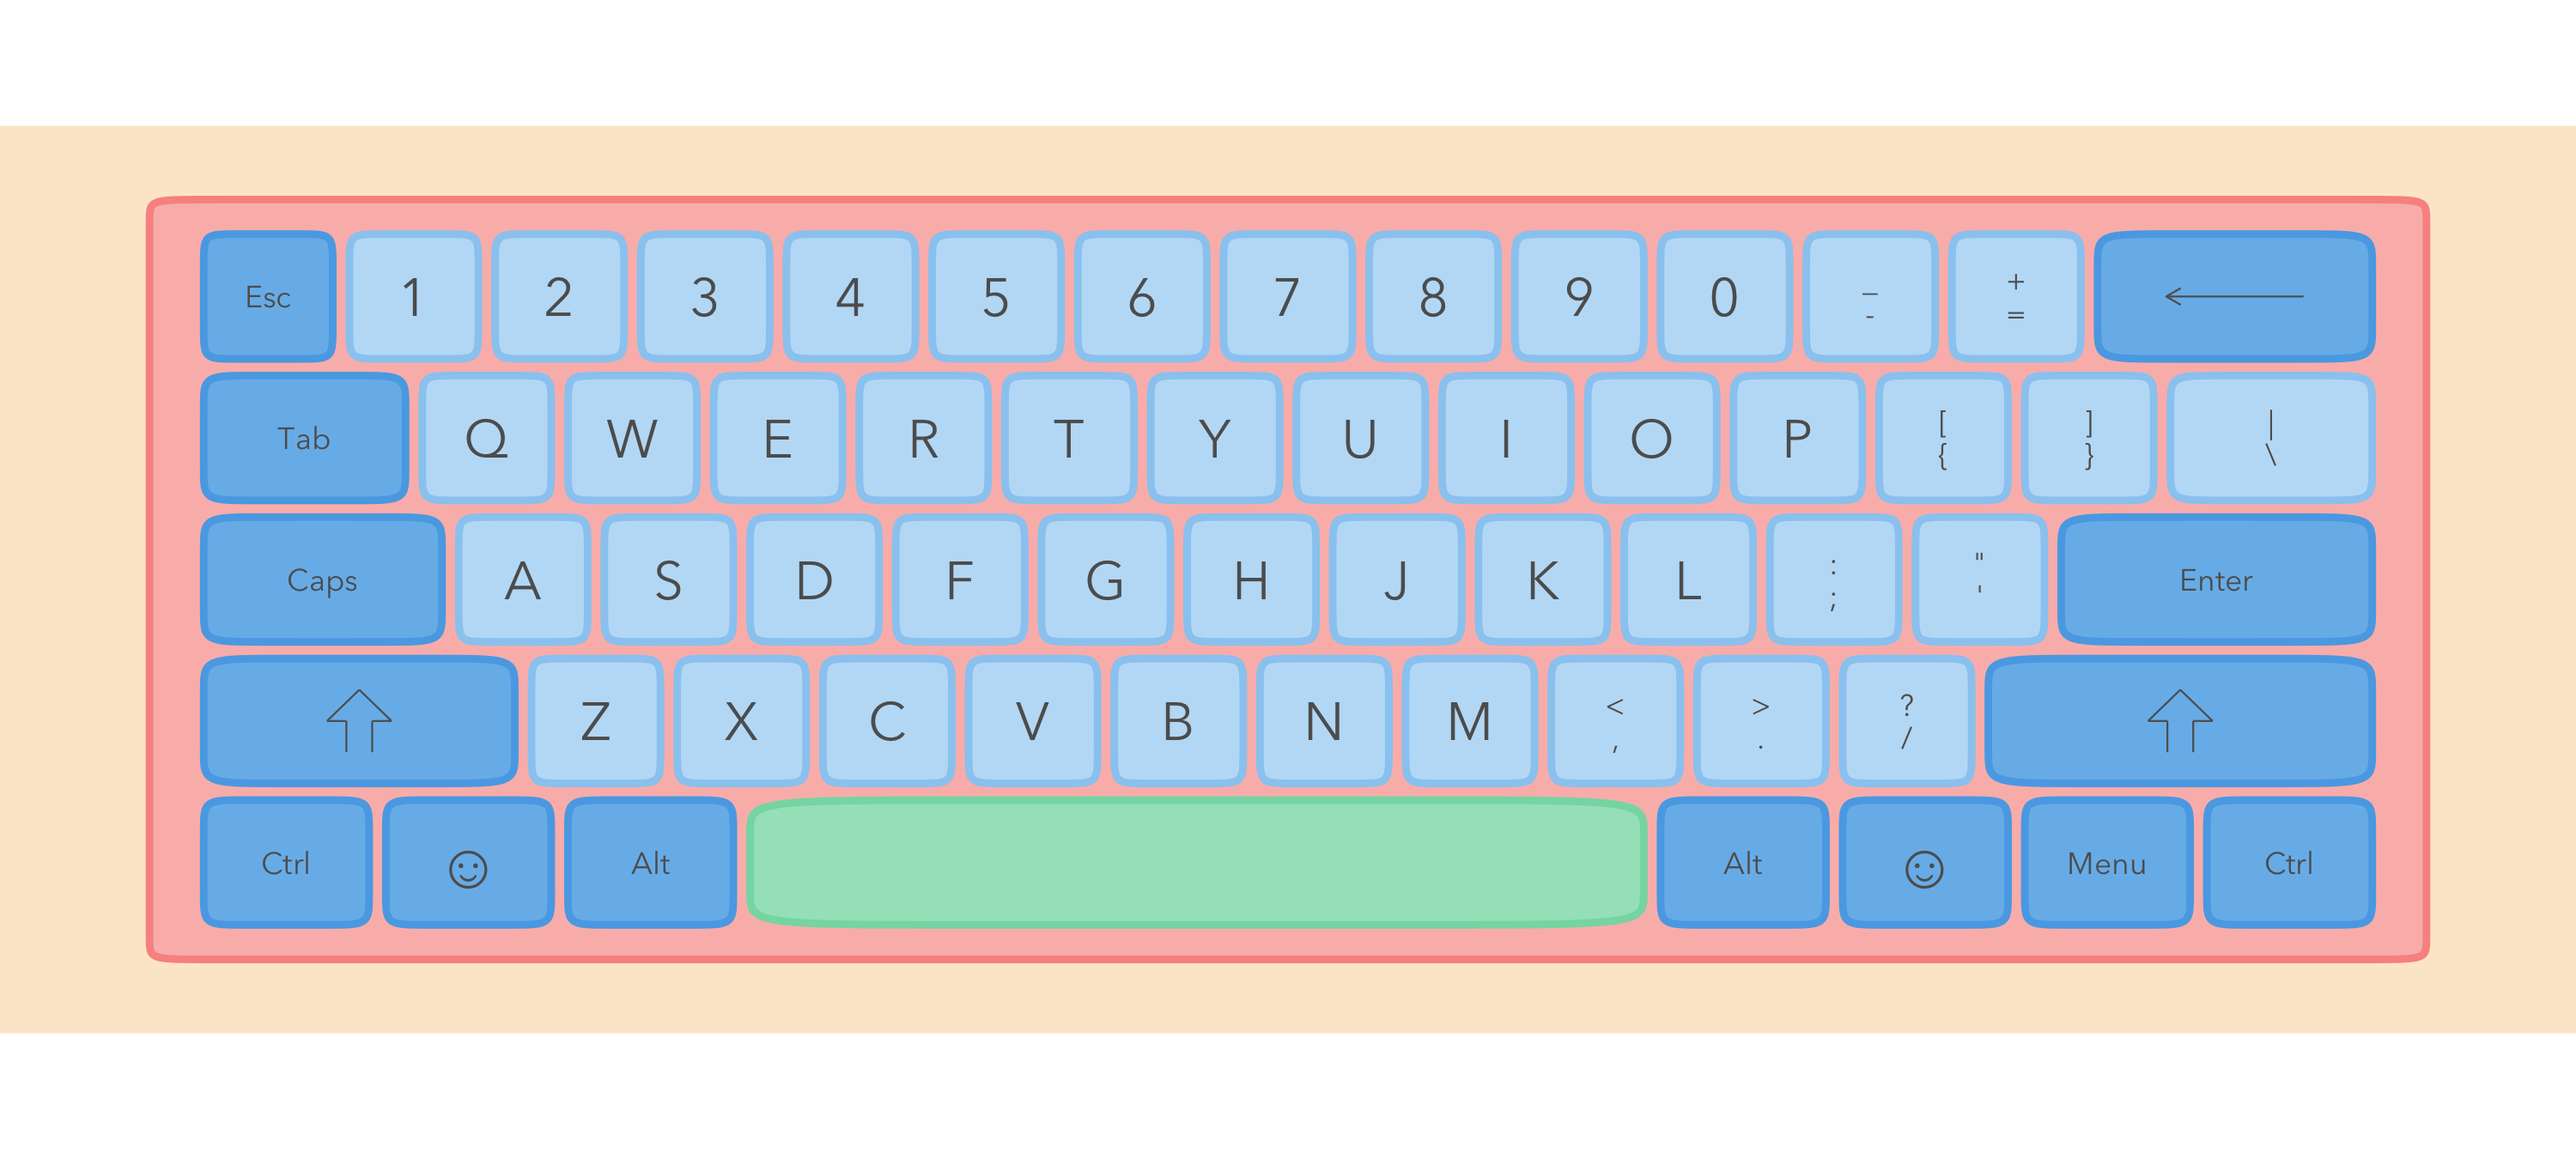
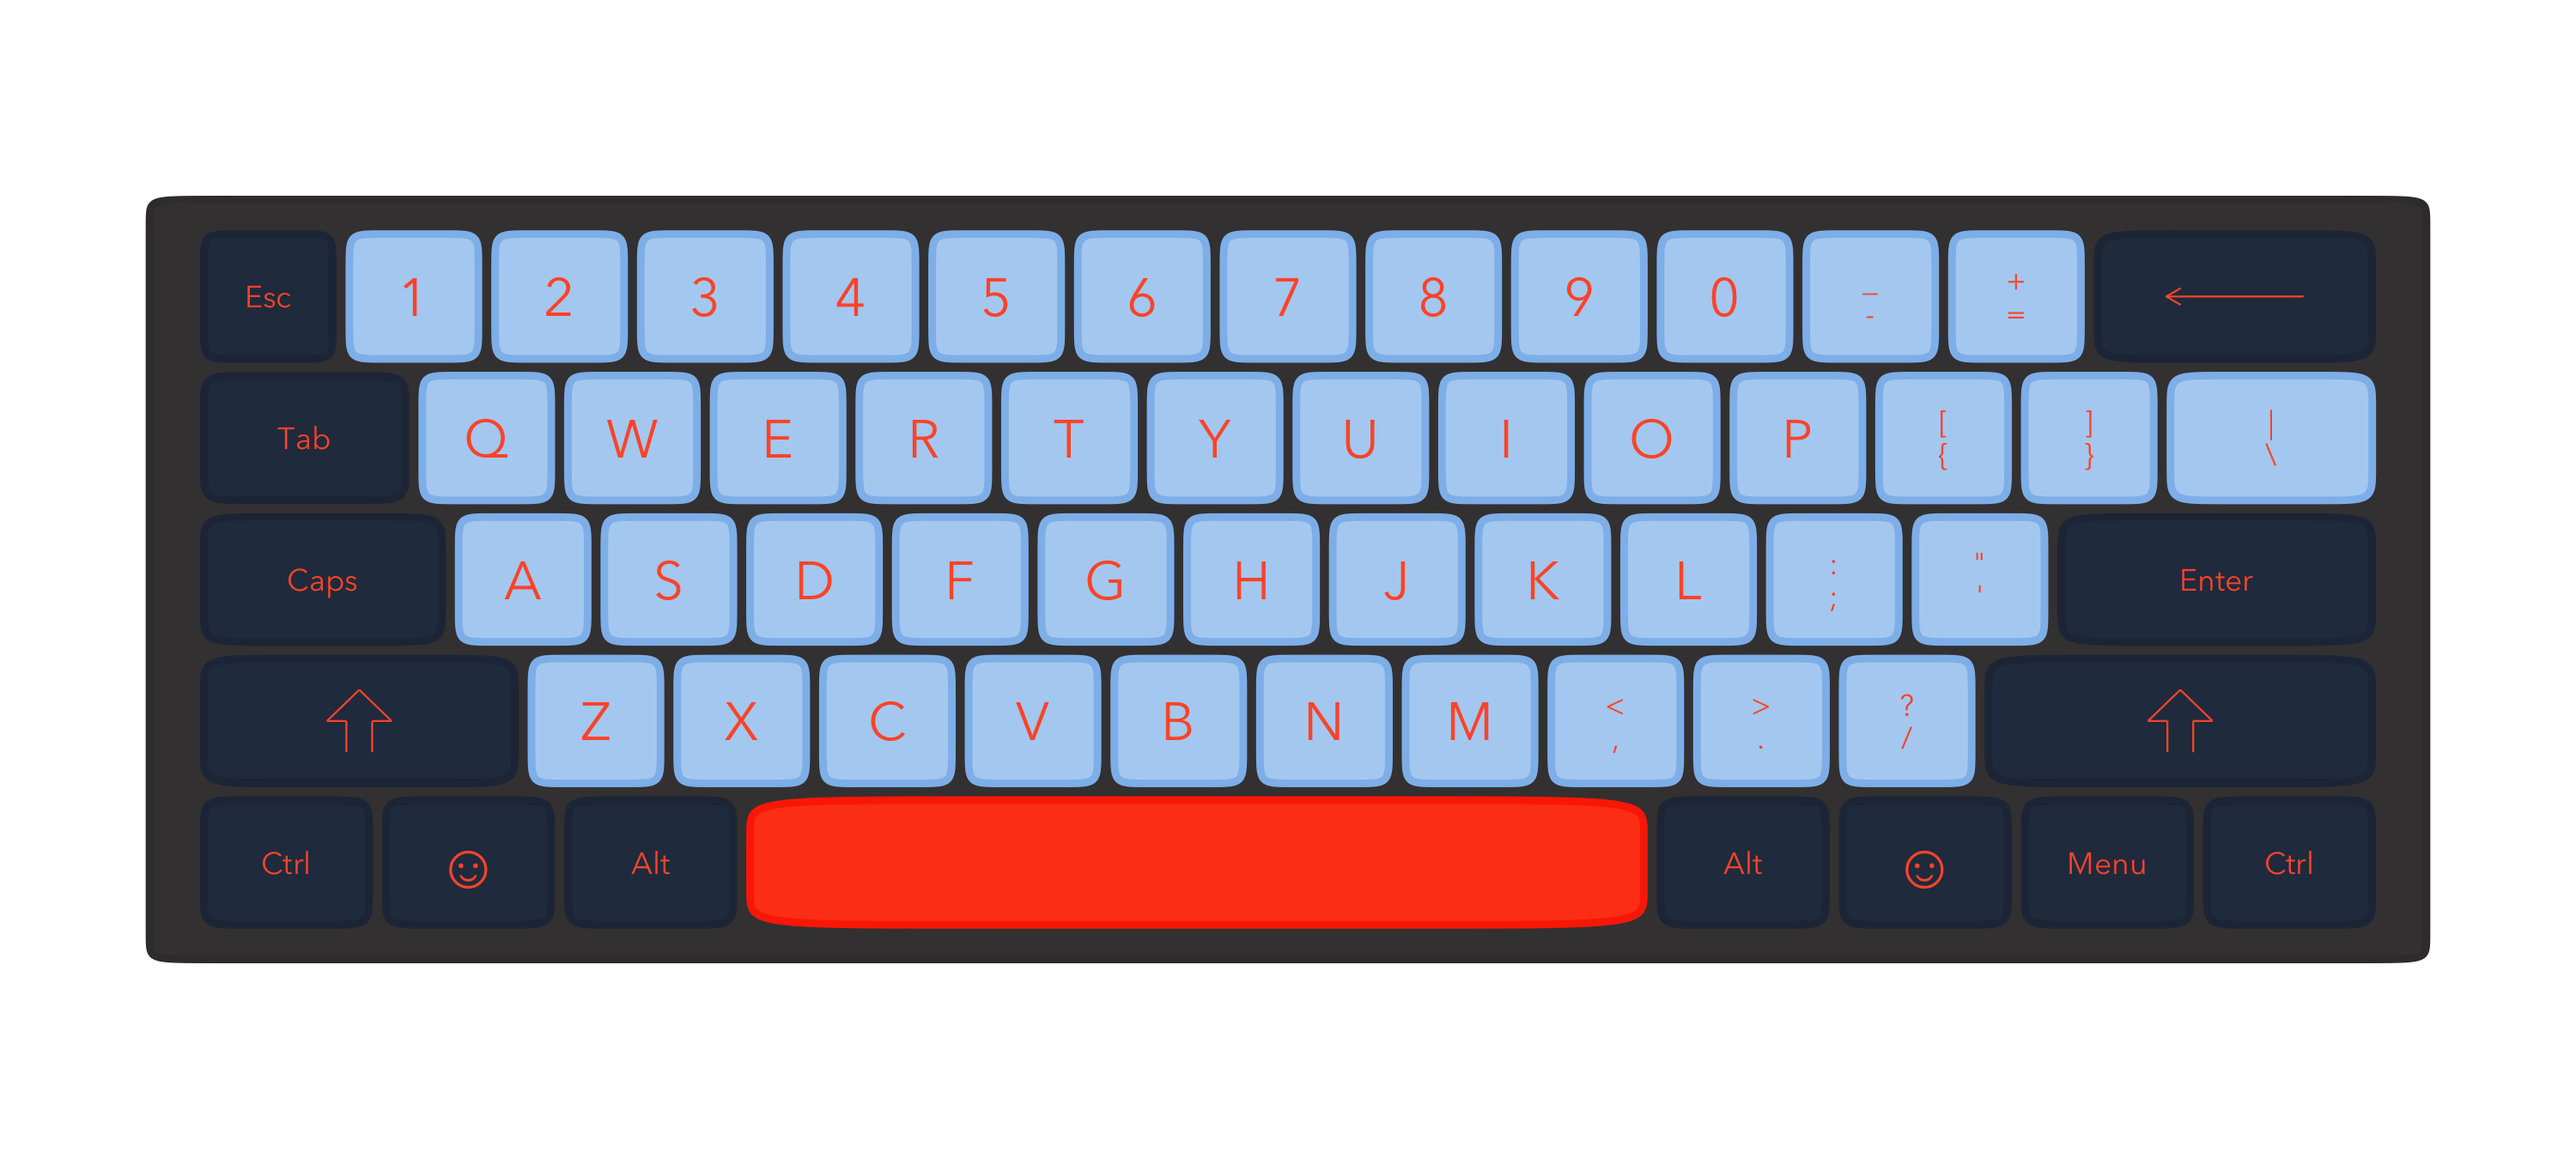
Add palette

diff --git a/README.md b/README.md
@@ -95,10 +95,12 @@ ggkeyboard(full, palette = keyboard_palette("varmilo"), font_size = 2.75)
 
 <img src="man/figures/README-full-1.png" width="100%" />
 
-a 60% layout available via `sixty_percent`:
+a 60% layout available via `sixty_percent` (colour palette based off the
+[Drop + T0mb3ry SA Yuri Custom Keycap
+Set](https://drop.com/buy/drop-t0mb3ry-sa-yuri-custom-keycap-set)):
 
 ``` r
-ggkeyboard(sixty_percent)
+ggkeyboard(sixty_percent, palette = keyboard_palette("t0mb3ry"), adjust_text_colour = FALSE)
 ```
 
 <img src="man/figures/README-sixty-1.png" width="100%" />
